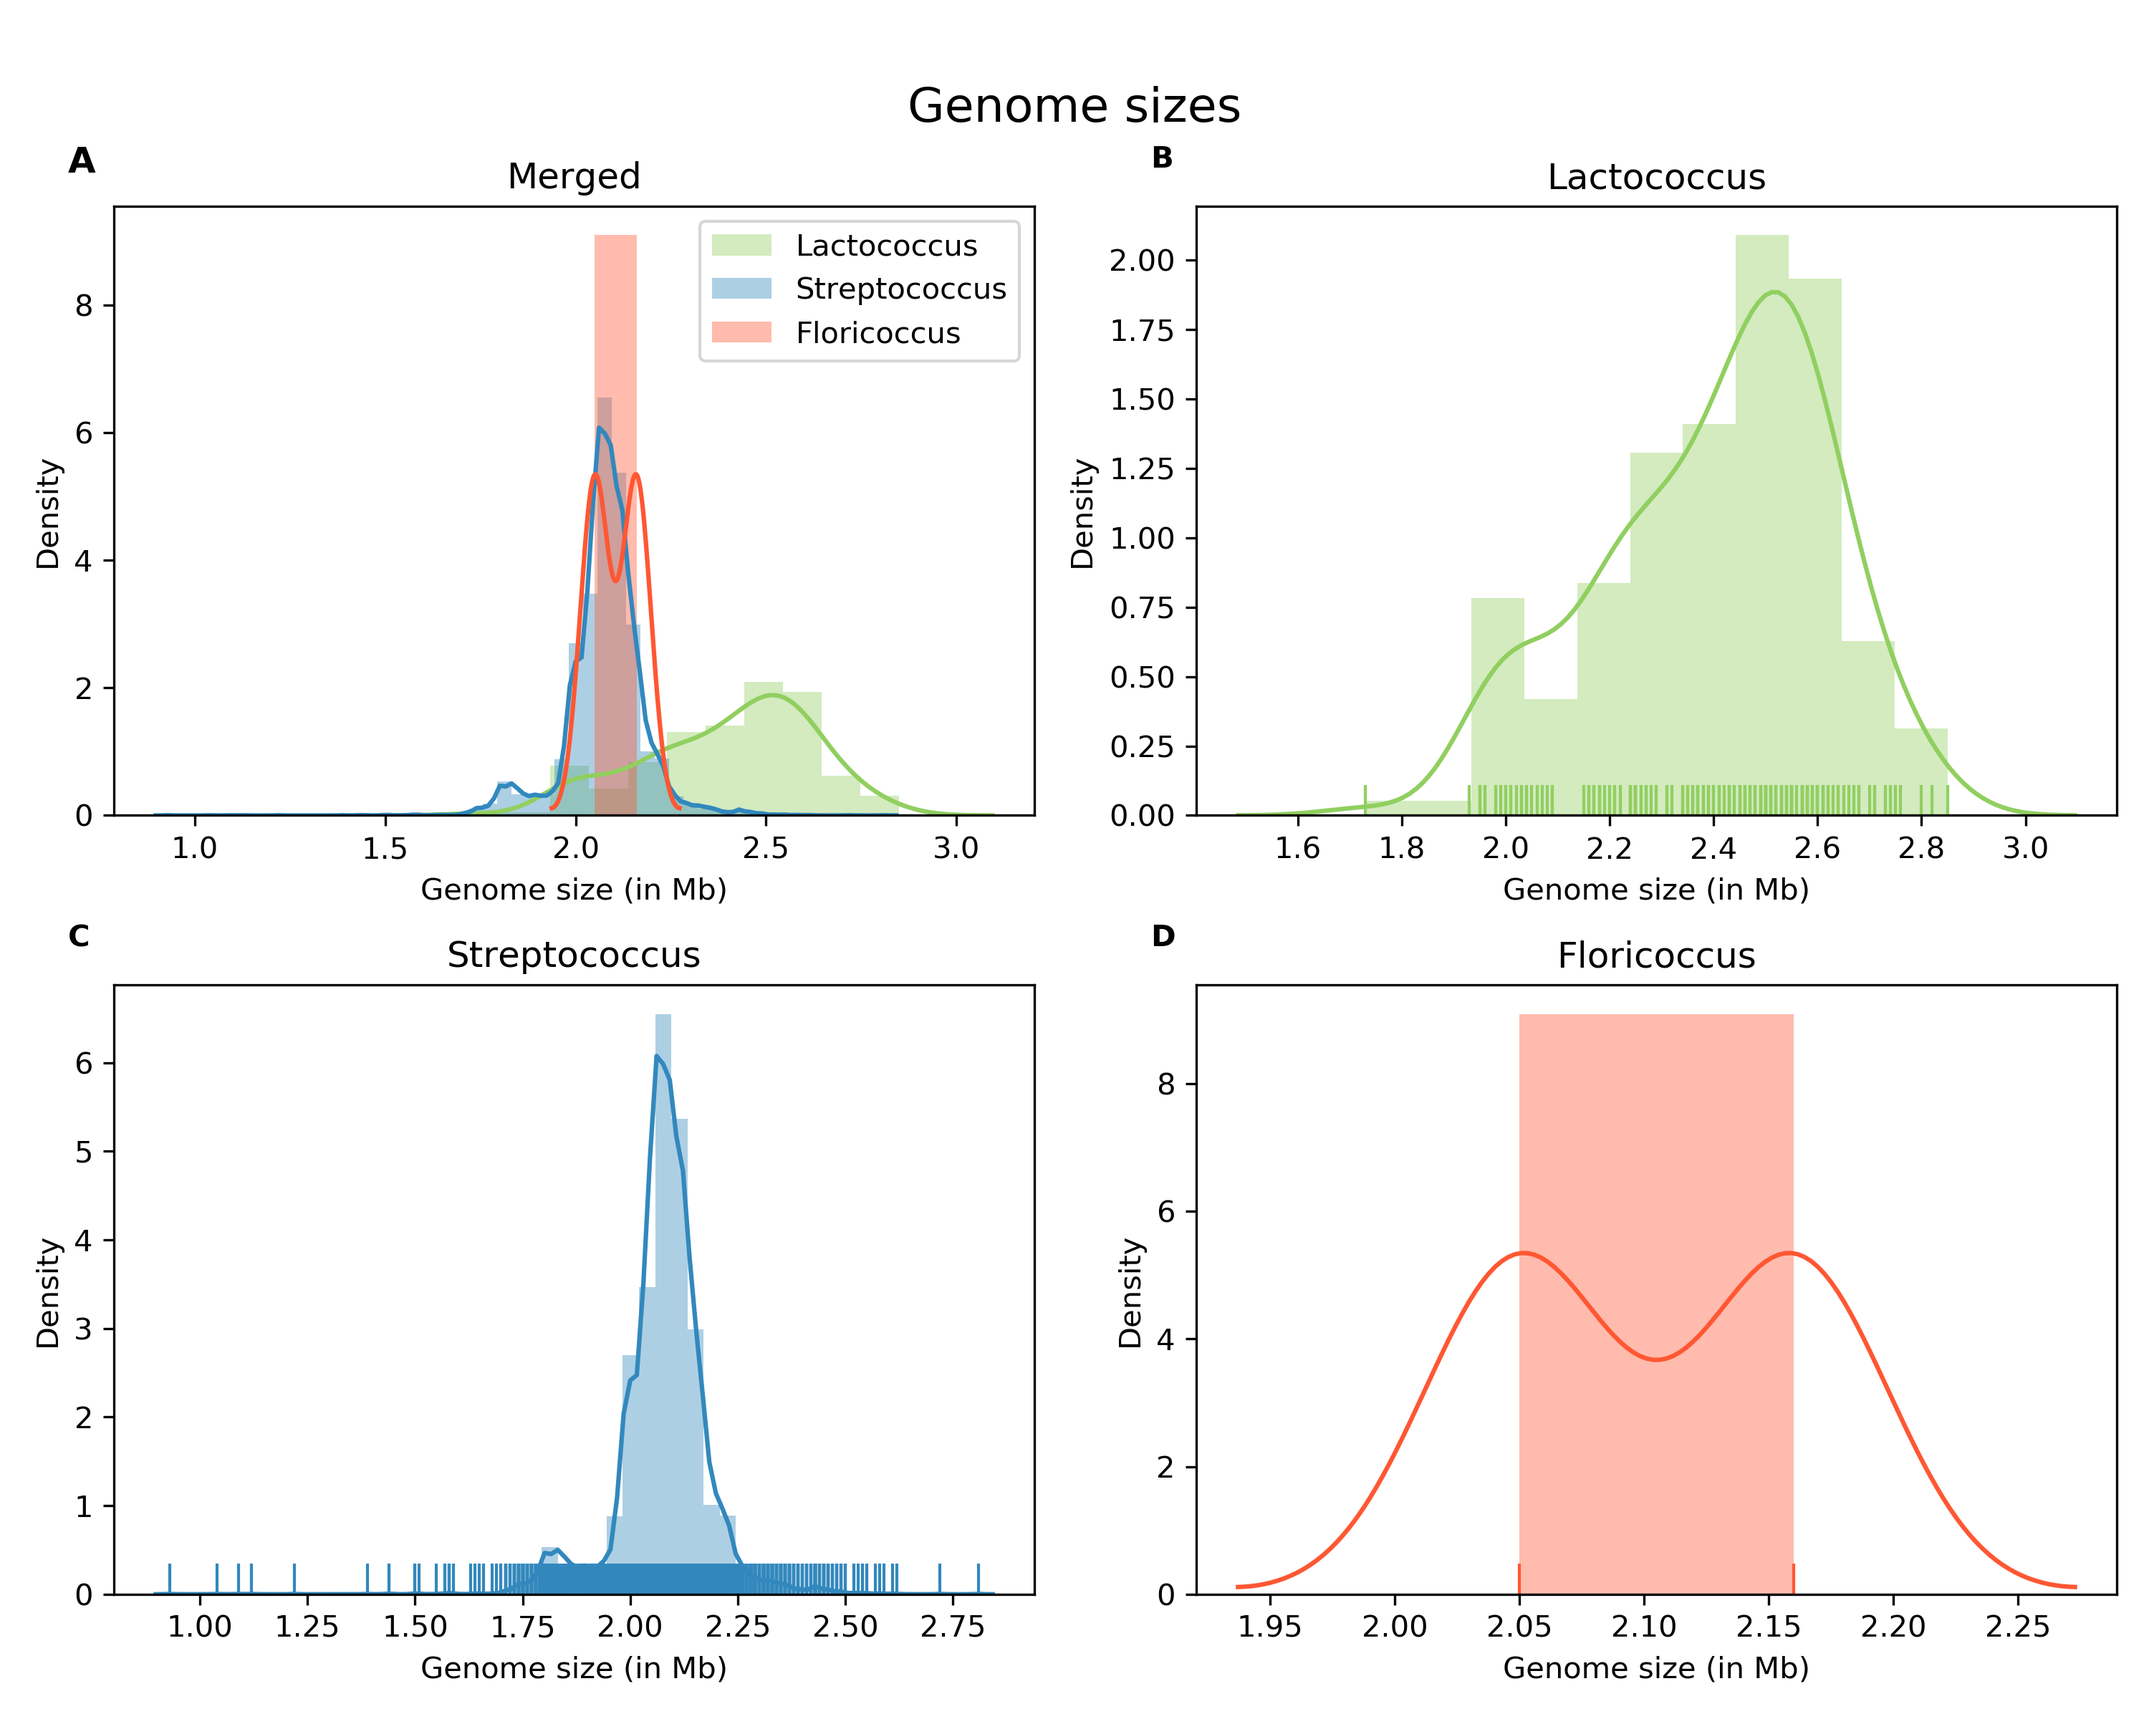
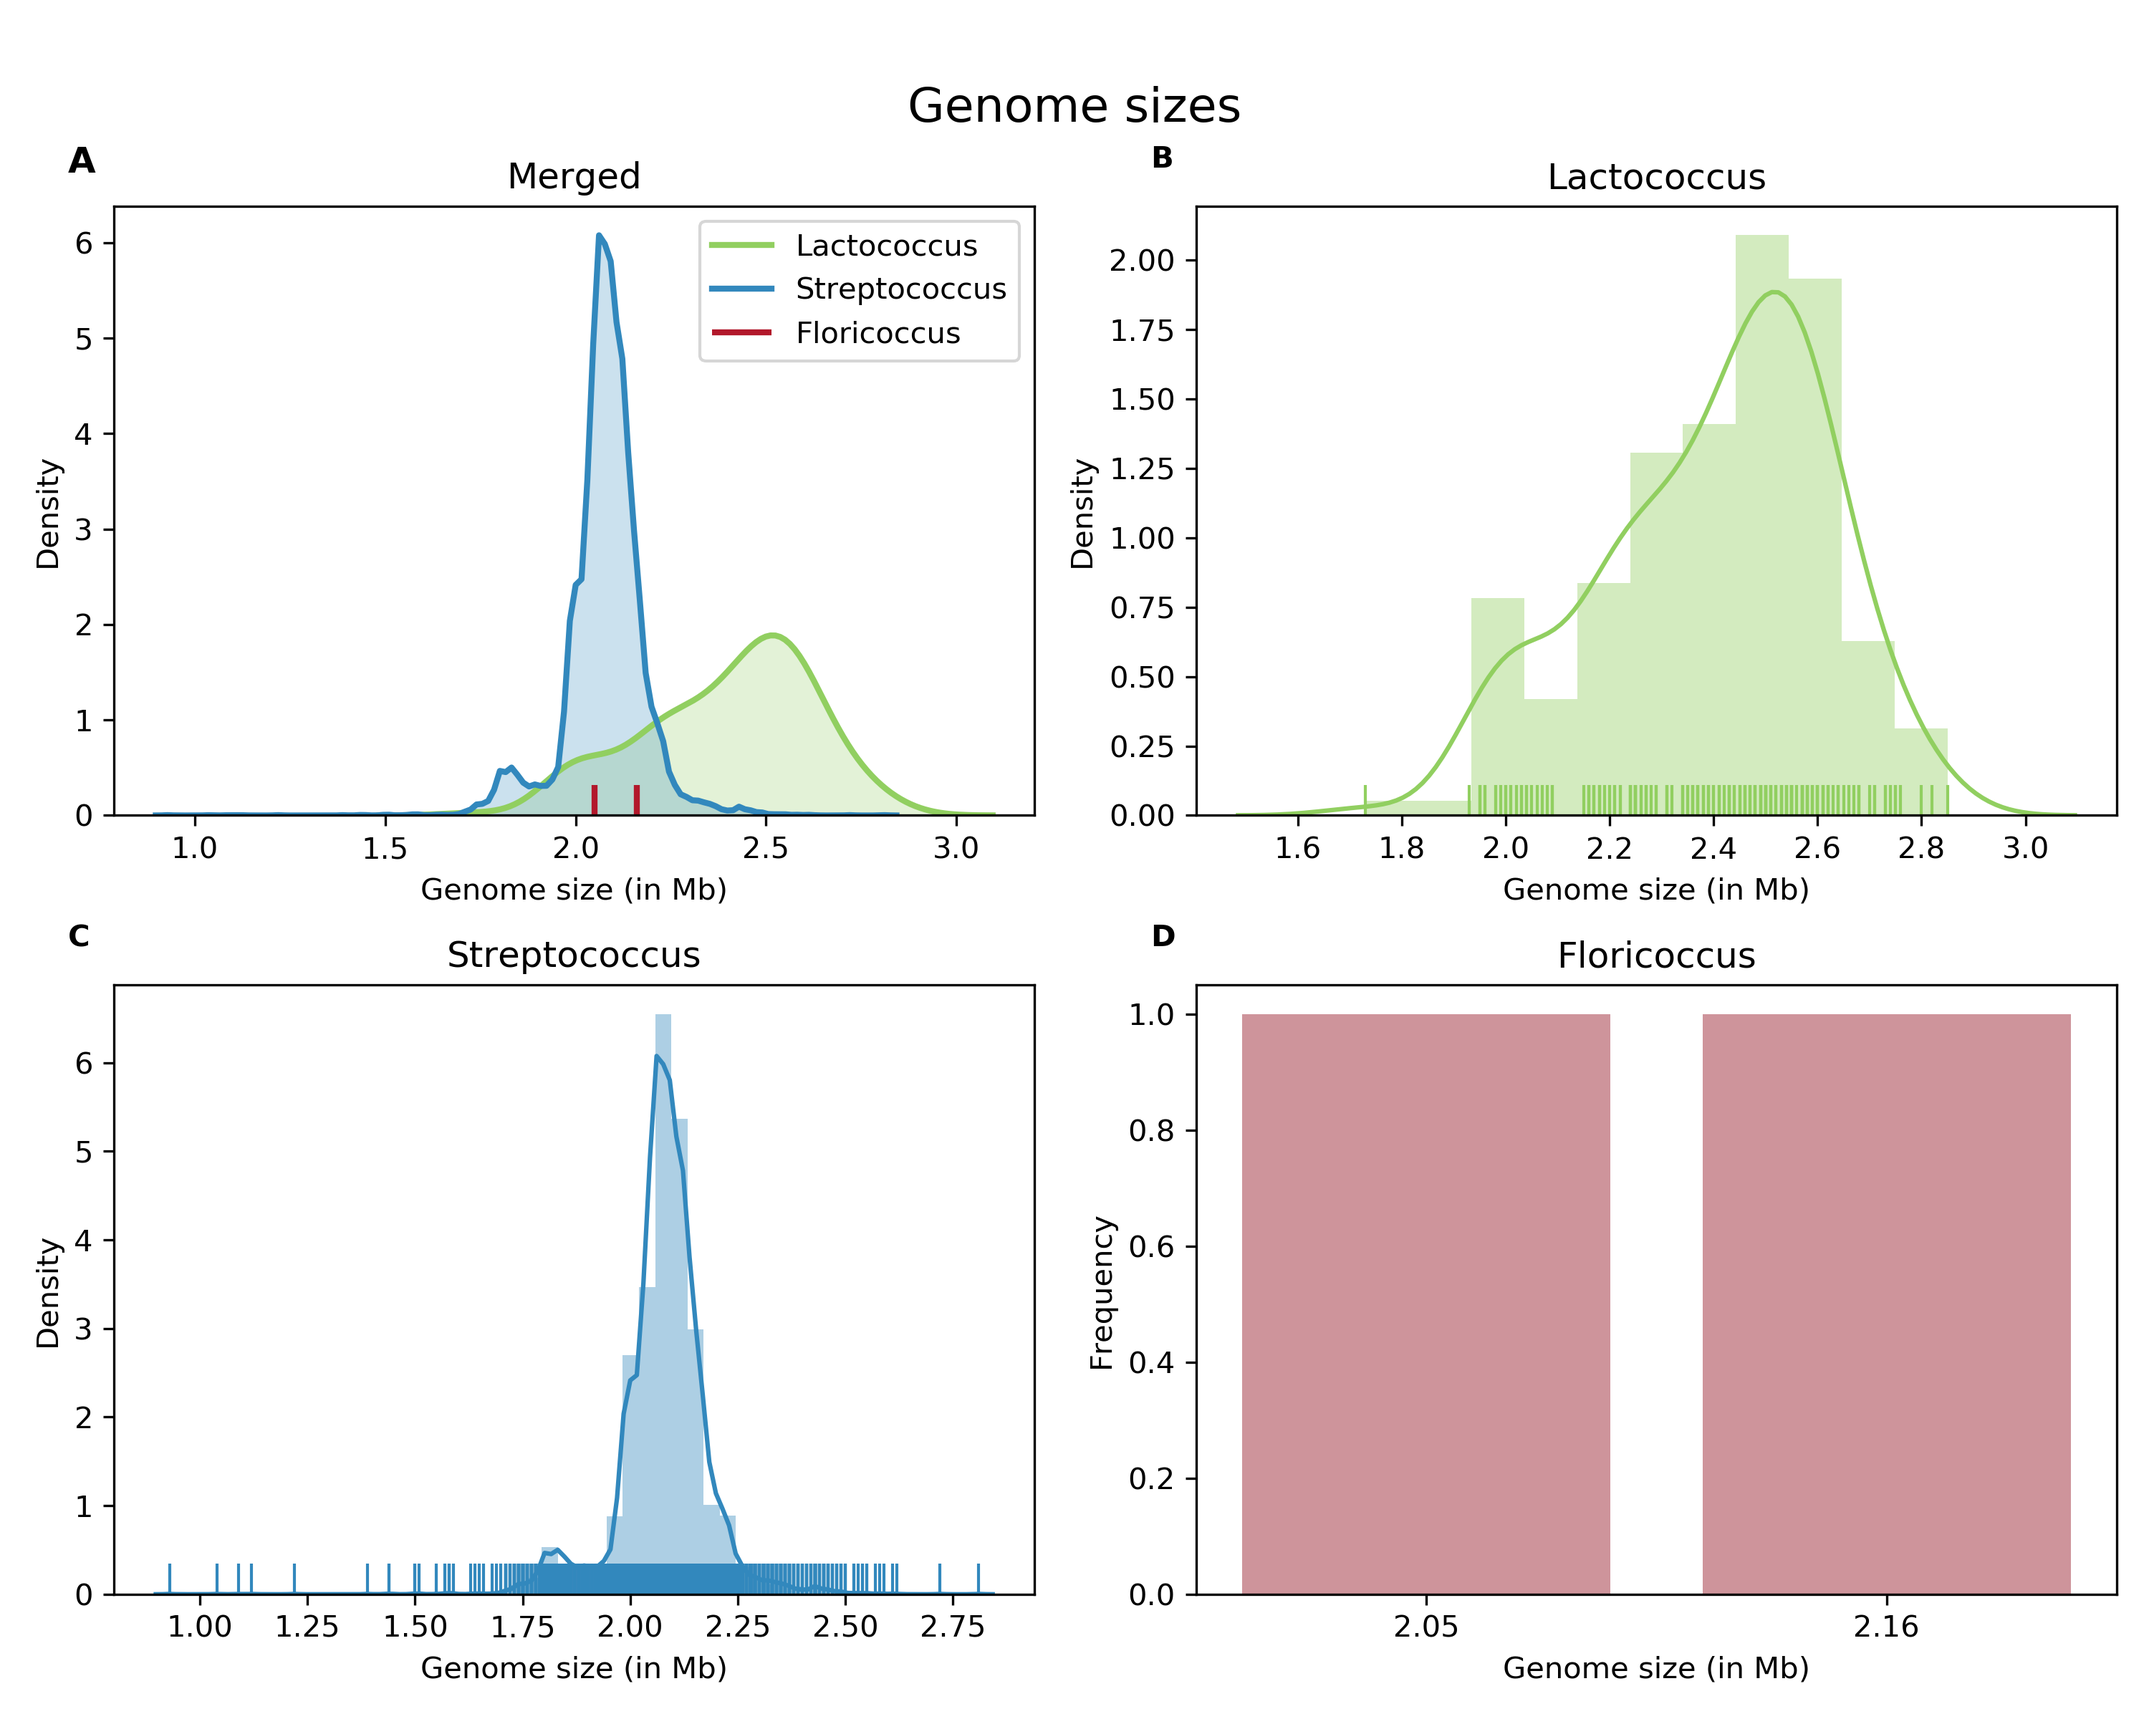
27/01/20 Swiftortho test

Changed region(s): [[0.496, 0.5625, 0.961, 0.9688], [0.217, 0.125, 0.434, 0.5]]

diff --git a/scripts/make_histograms.py b/scripts/make_histograms.py
@@ -55,20 +55,17 @@ flori_gs = [round(elem/1000000, 2) for elem in flori_gs]
 
 
 
-all_gs = {"Lactococcus" : lac_gs,
-          "Streptococcus": strepto_gs,
-          "Floricoccus" : flori_gs}
-
 #Make grid of plots (4 total) that can be filled
 fig, axs = plt.subplots(2,2, figsize= (10,8)) #2x2 grid with determined figure size
 
 #fill subplots with histograms
-ax1 = sns.distplot(all_gs['Lactococcus'], color = '#91cf60', label = 'Lactococcus', ax=axs[0,0])
-ax1 = sns.distplot(all_gs['Streptococcus'], color = '#3288bd', label = 'Streptococcus', ax=axs[0,0])
-ax1 = sns.distplot(all_gs['Floricoccus'], color = '#b2182b', label = 'Floricoccus', ax=axs[0,0])
-ax2 = sns.distplot(all_gs['Lactococcus'], color = '#91cf60', label = 'Lactococcus', ax=axs[0,1], rug=1)
-ax3 = sns.distplot(all_gs['Streptococcus'], color = '#3288bd', label = 'Streptococcus', ax=axs[1,0], rug=1)
-ax4 = sns.distplot(all_gs['Floricoccus'], color = '#b2182b', label = 'Floricoccus', ax=axs[1,1], rug=1)
+ax1 = sns.distplot(lac_gs, color = '#91cf60', label = 'Lactococcus', ax=axs[0,0], hist=0, kde=1, kde_kws = {'shade' : 1, 'linewidth' : 2})
+ax1 = sns.distplot(strepto_gs, color = '#3288bd', label = 'Streptococcus', ax=axs[0,0], hist=0, kde=1, kde_kws = {'shade' : 1, 'linewidth' : 2})
+ax1 = sns.distplot(flori_gs, color = '#b2182b', label = 'Floricoccus', ax=axs[0,0], hist=0, kde=0, rug =1, rug_kws={'linewidth' :2})
+ax2 = sns.distplot(lac_gs, color = '#91cf60', label = 'Lactococcus', ax=axs[0,1], rug=1)
+ax3 = sns.distplot(strepto_gs, color = '#3288bd', label = 'Streptococcus', ax=axs[1,0], rug=1)
+ax4 = sns.countplot(flori_gs, color = '#b2182b', alpha= 0.5, label = 'Floricoccus', ax=axs[1,1])
+#ax4 = sns.distplot(flori_gs,bins=20, color = '#b2182b', label = 'Floricoccus', ax=axs[1,1], kde=0, norm_hist=0, rug=1)
 ax1.legend(loc='upper right')
 
 #Titles
@@ -79,8 +76,13 @@ ax3.set_title('Streptococcus')
 ax4.set_title('Floricoccus')
 
 #Set x and y labels for all plots
-for ax in axs.flat:
-    ax.set(xlabel='Genome size (in Mb)', ylabel='Density')
+# for ax in axs.flat:
+    # ax.set(xlabel='Genome size (in Mb)', ylabel='Density')
+
+ax1.set(xlabel='Genome size (in Mb)', ylabel='Density')
+ax2.set(xlabel='Genome size (in Mb)', ylabel='Density')
+ax3.set(xlabel='Genome size (in Mb)', ylabel='Density')
+ax4.set(xlabel='Genome size (in Mb)', ylabel='Frequency')
 
 #Sublabels for the plot
 ax1.text(-0.05, 1.10, "A", ha = "left", va="top", transform=ax1.transAxes, size=12, weight = 'bold')

diff --git a/scripts/making_sequencing_platform_plots.py b/scripts/making_sequencing_platform_plots.py
@@ -53,7 +53,7 @@ def seq_platform_plot(file, genus):
     plt.xlabel("Sequencing Platform", fontsize = 11)
     plt.ylabel("Times mentioned", fontsize = 11)
     plt.tight_layout()
-    plt.savefig(saving_dir)
+    # plt.savefig(saving_dir)
 
 path = os.getcwd()
 p = Path(path)
